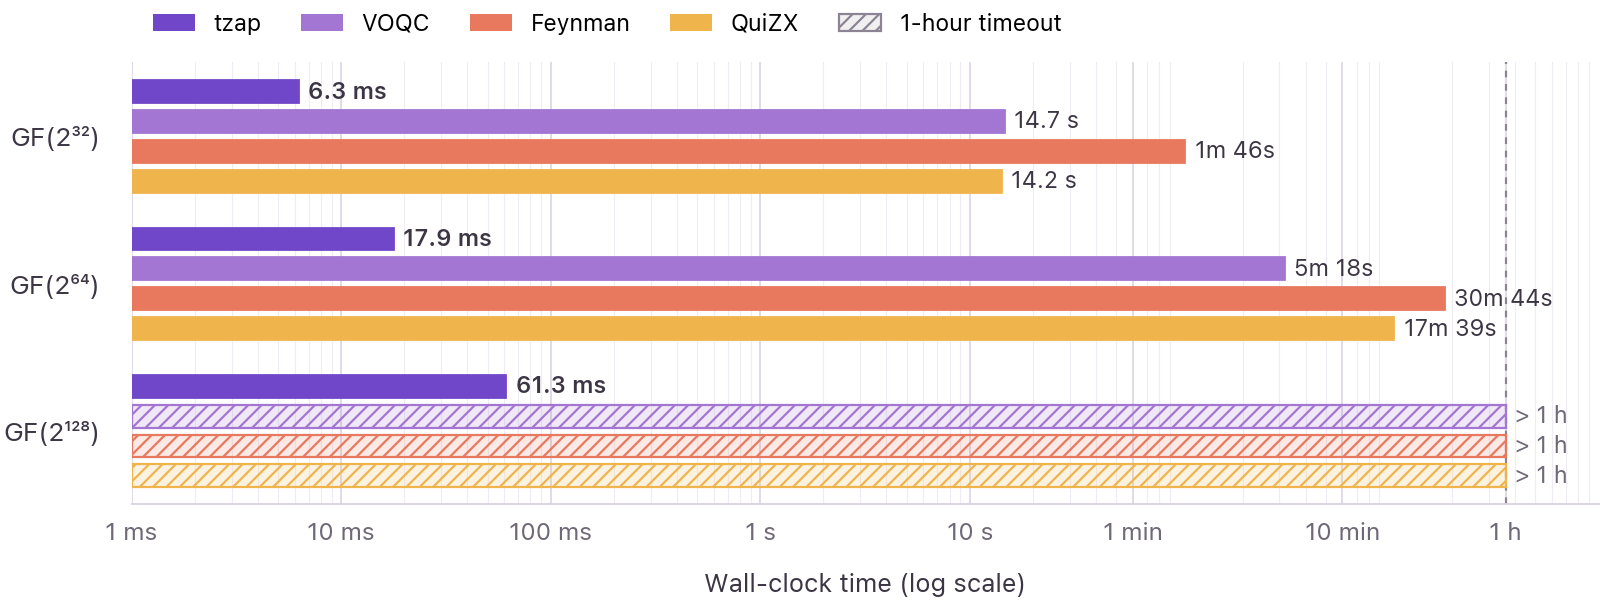
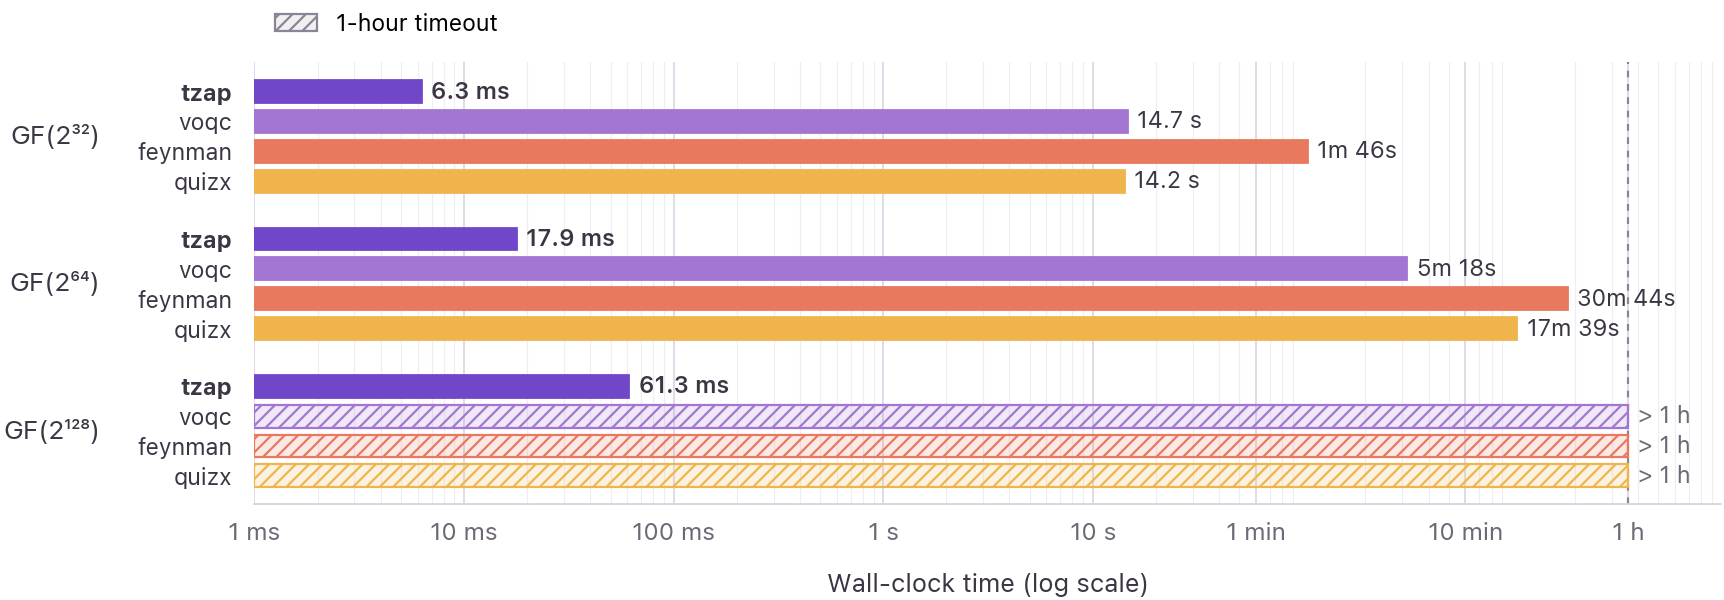
CLI usage

diff --git a/README.md b/README.md
@@ -17,27 +17,21 @@ tzap is **multiple orders of mangitude** faster than other optimizers&mdash;and 
      alt="Runtime comparison of tzap, VOQC, Feynman, and QuiZX on GF multipliers"
      style="width: 100%; height: auto;">
 
-## Usage
+## CLI Usage
 
-CLI usage or API usage (see [API.md](API.md)).
+tzap is a CLI optimization tool for quantum circuits. You can also use tzap as a Rust library; see the [Rust API documentation](API.md).
+
+**Optimize a circuit and inspect the results**
+
+Use the default pipeline when you want to optimize a circuit and inspect how much tzap reduces it. The `-o` option writes the optimized circuit to a new OpenQASM file; if you omit `-o`, tzap prints the statistics without writing the circuit.
 
 ```bash
-tzap input.qasm                           # optimize, print stats only
-tzap input.qasm -o output.qasm            # write optimized circuit to file
-tzap input.qasm -o output.qasm --decompose-rz              # decompose Rz via gridsynth (epsilon=1e-10)
-tzap input.qasm -o output.qasm --decompose-rz --epsilon 1e-6  # coarser approximation
-tzap input.qasm -o output.qasm --passes CancelGates,PhaseFoldRand  # explicit pass pipeline
+tzap benchmarks/feynman/barenco_tof_5.qasm -o optimized.qasm
 ```
 
-Output is written only when an output file is given (via `-o`).
+Output:
 
-**Gate handling:** Toffoli (`ccx`) gates are automatically decomposed into Clifford+T before optimization. Controlled-Z (`cz`) gates remain native so phase folding and cancellation can operate through them; use `--passes DecomposeCz` when a backend requires `H`+`CX` output. `Rz` gates are left as-is by default; pass `--decompose-rz` to decompose them into Clifford+T via [gridsynth](https://crates.io/crates/rsgridsynth), and `--epsilon <eps>` to control the approximation precision (default: `1e-10`; accepts scientific notation).
-
-### Example
-
-```bash
-$ tzap benchmarks/feynman/barenco_tof_5.qasm
-
+```text
 ⚡ tzap
   Parsing benchmarks/feynman/barenco_tof_5.qasm (0.0 MB)
 	└─ 9 qubits · 218 gates · 84 T/Tdg · 0.000s
@@ -52,6 +46,26 @@ $ tzap benchmarks/feynman/barenco_tof_5.qasm
 	├─ T/Tdg  84 → 40 (↓52.4%)
 	└─ Time   0.000s
 ```
+
+**Decompose Rz gates into Clifford+T and choose the precision**
+
+Use `--decompose-rz` when the target backend accepts only Clifford+T gates. tzap decomposes `Rz` gates with [gridsynth](https://crates.io/crates/rsgridsynth). Use `--epsilon` to trade approximation accuracy for a potentially smaller circuit; a larger epsilon permits a coarser approximation. If you omit `--epsilon`, tzap uses `1e-10`.
+
+```bash
+tzap input.qasm -o output.qasm --decompose-rz --epsilon 1e-6  # omit --epsilon to use 1e-10
+```
+
+**Run a custom optimization pipeline**
+
+tzap allows you to run a custom sequence of optimization passes with `--passes`. Use it when you need explicit control over which passes run and their order. The listed passes replace the default pipeline.
+
+```bash
+tzap input.qasm -o output.qasm --passes CancelGates,PhaseFoldRand
+```
+
+**Gate handling**
+
+Toffoli (`ccx`) gates are automatically decomposed into Clifford+T before optimization. Controlled-Z (`cz`) gates remain native so phase folding and cancellation can operate through them; use `--passes DecomposeCz` when a backend requires `H`+`CX` output. `Rz` gates are left as-is unless you pass `--decompose-rz`.
 
 ## Limitations
 
